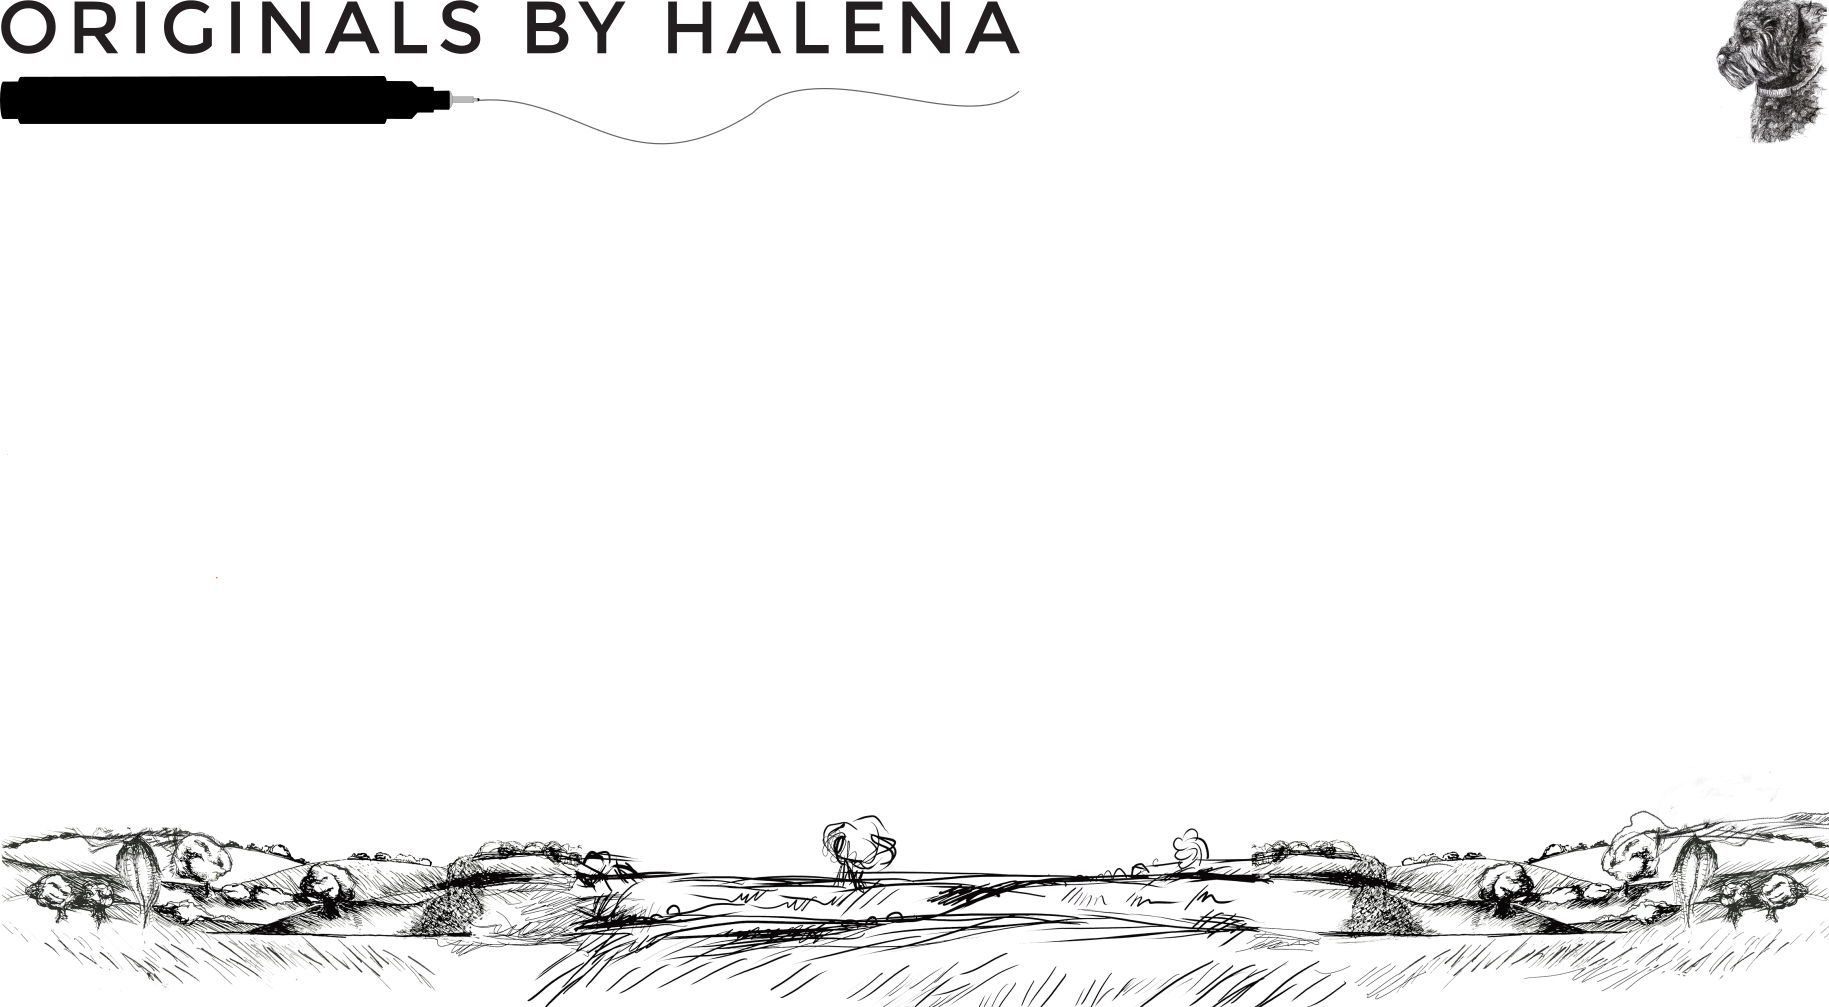
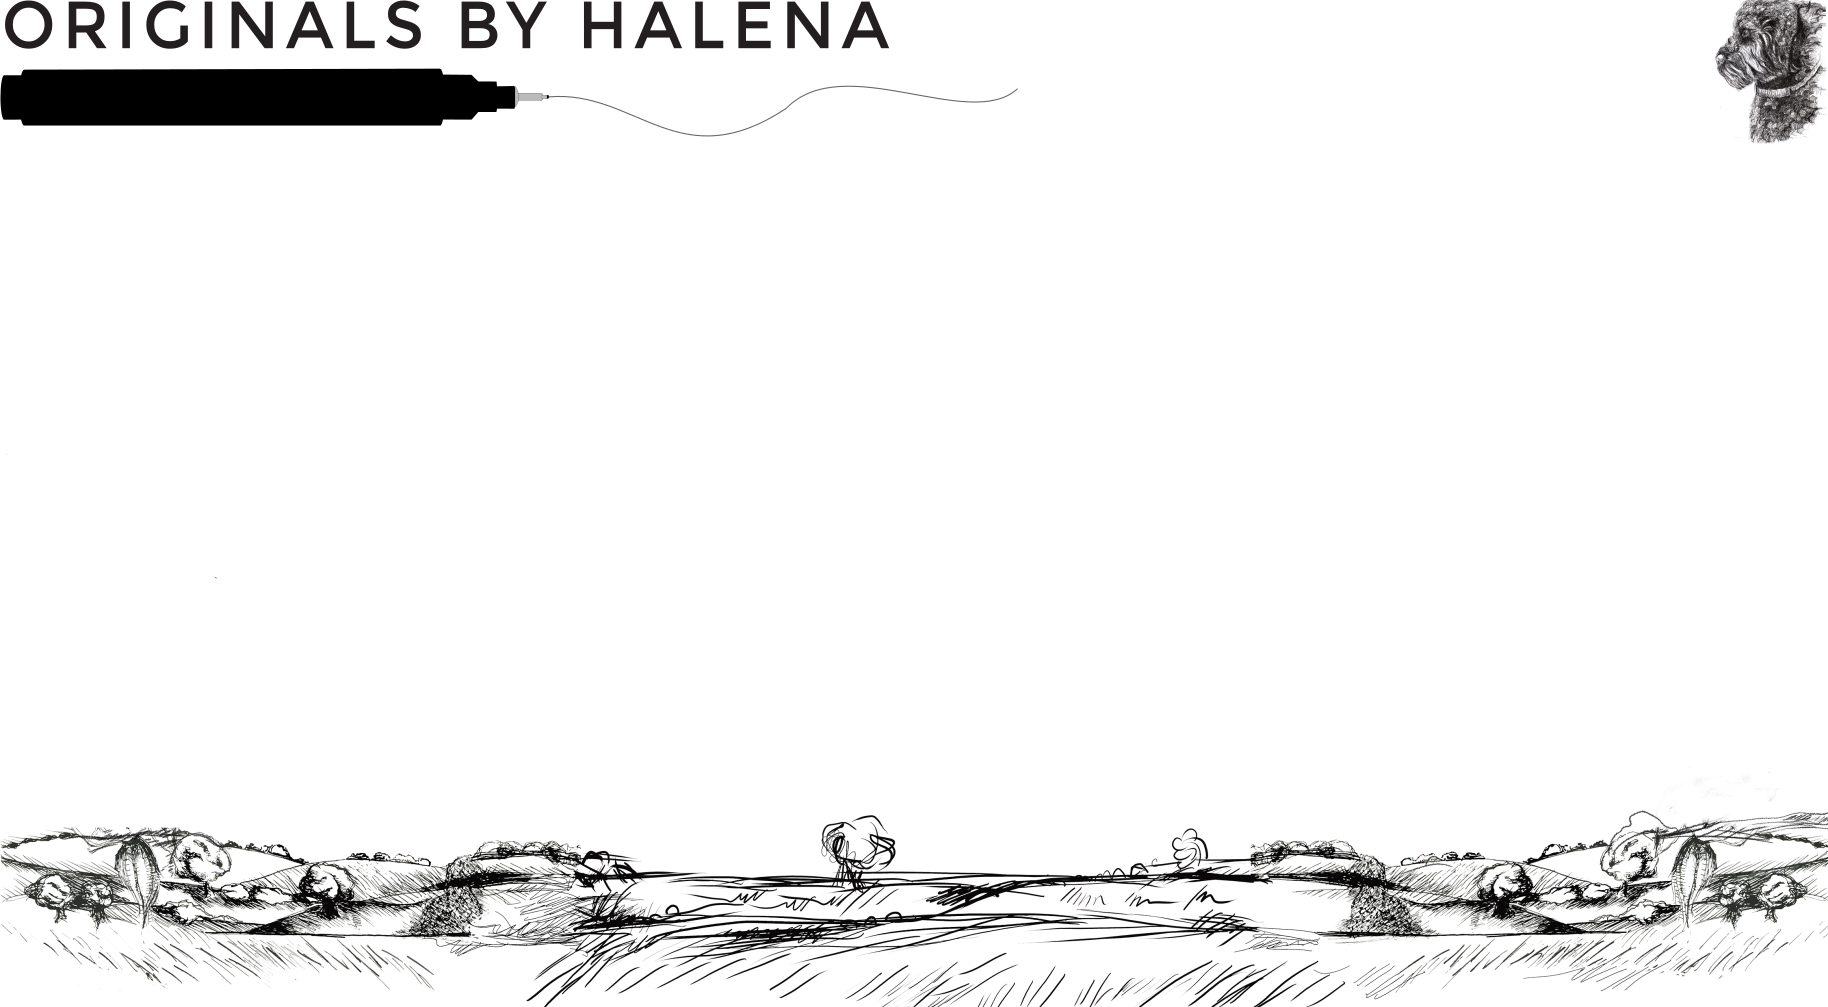
updated background
saved png file and updated offset for menu so it lines up

diff --git a/index.html b/index.html
@@ -81,8 +81,8 @@
             transform: translate(-50%, -50%);
             
             /* Pin the center point directly over the mobile black menu rectangle */
-            top: 3.3%; 
-            left: 15.25%;
+            top: 3.65%; 
+            left: 14%;
             width: 26%;  
             height: 5%; 
             
@@ -123,8 +123,8 @@
         @media screen and (min-width: 901px) {
             #dropdown-anchor {
                 background-image: none !important; 
-                left: 9.25%;  /* Center point over the widescreen desktop menu box */
-                top: 10.25%;    
+                left: 7.25%;  /* Center point over the widescreen desktop menu box */
+                top: 9.9%;    
                 width: 30%;   
                 height: 6%; 
             }
